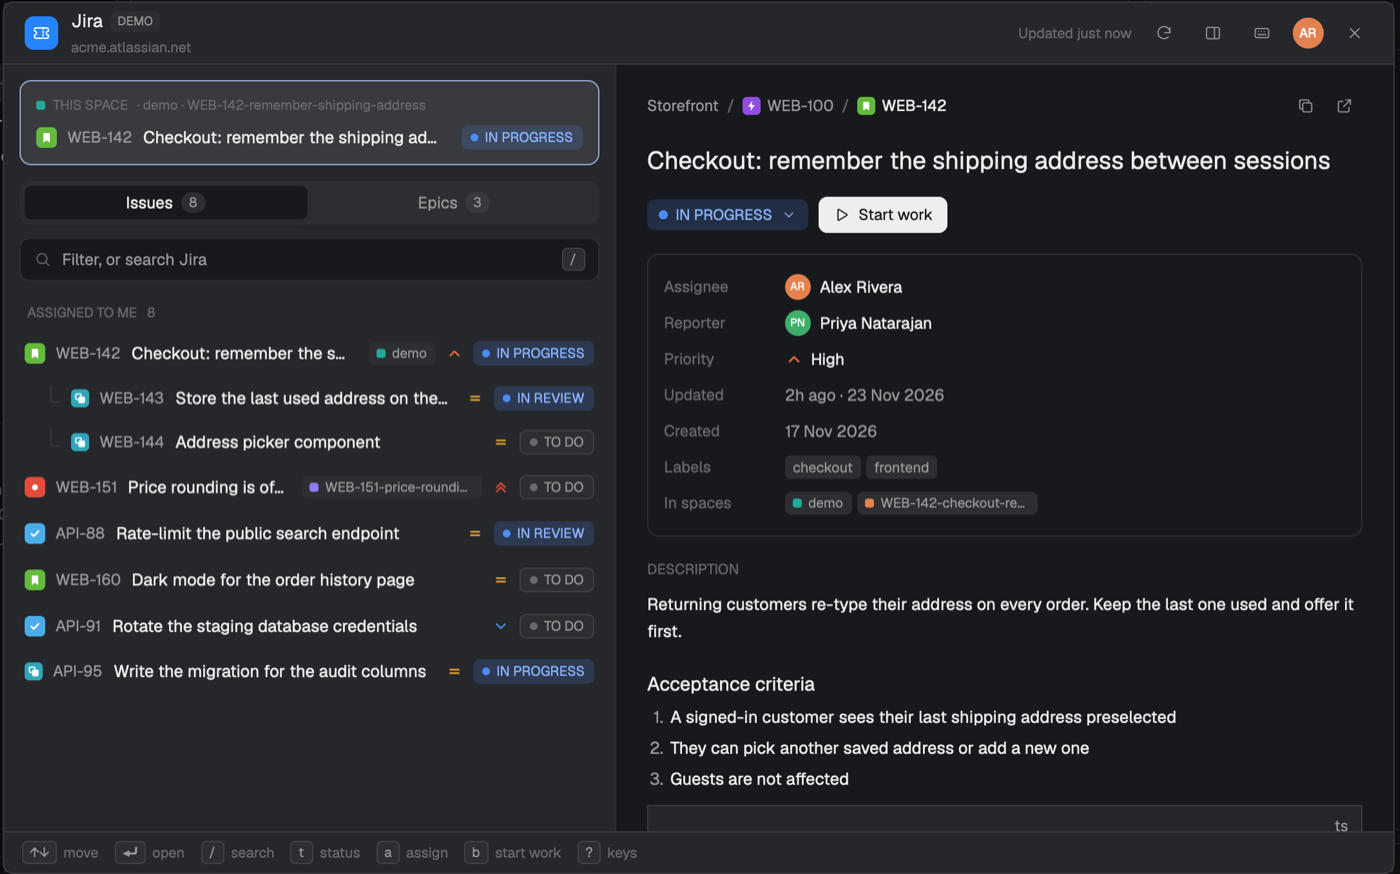
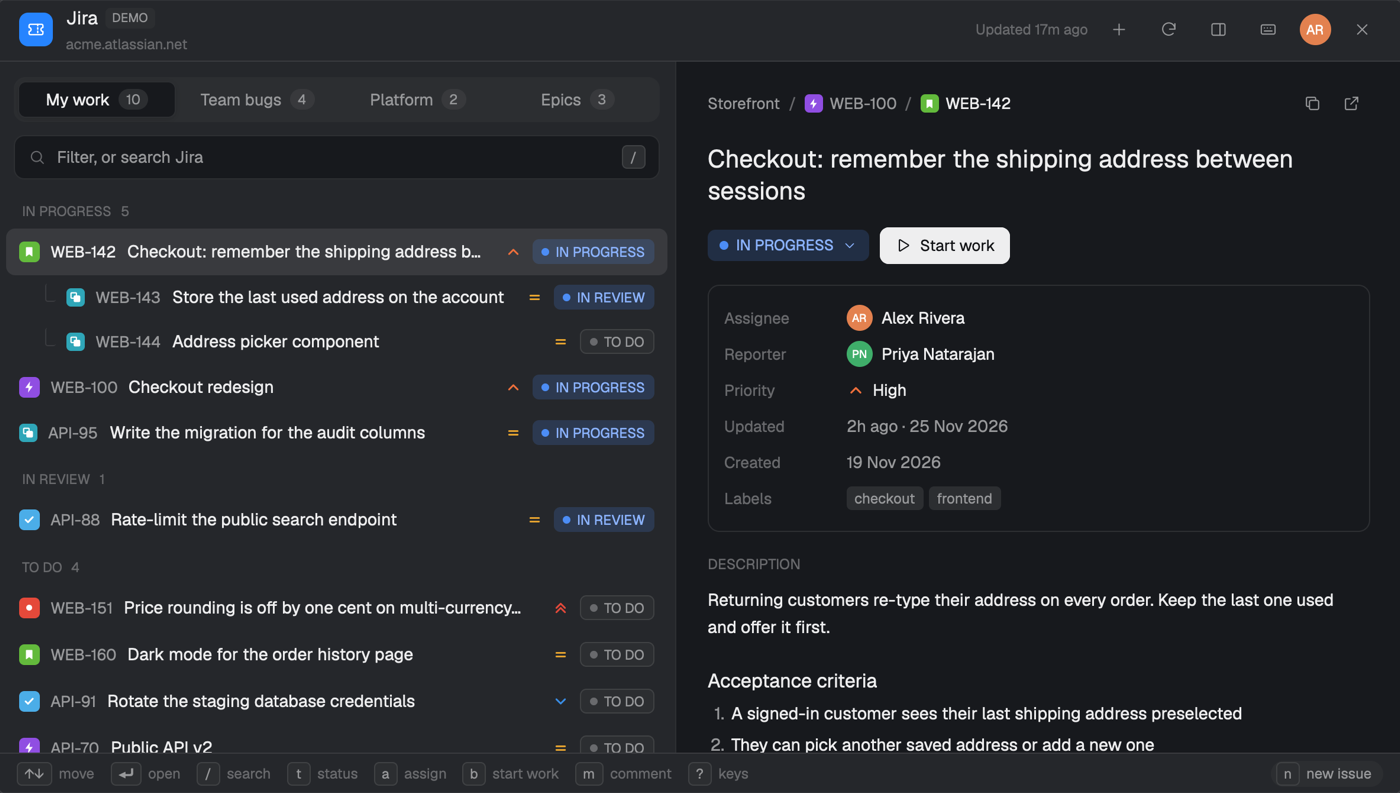
README: screenshots of each feature of the app mod (#21)
Refresh app/preview.png for configurable tabs and add a tour section to
app/README.md (status, start work, quick create, search, epics, setup,
keys), all from the demo site. Link it from the root README.

diff --git a/app/README.md b/app/README.md
@@ -39,6 +39,41 @@ shares its sign-in, caches and stars, so you can use both.
 **It writes to Jira** when you ask it to: creating an issue, status changes,
 assigning to you, and Start work's follow-ups. Stars stay on your machine.
 
+## A tour
+
+These screenshots are from the demo (`herdr-jira app install --demo`), a pretend
+Jira site, so you can try every one of them without an account.
+
+**Change status** (`t`): the issue's transitions, as Jira lists them.
+
+![The status menu on WEB-142, offering To Do, In Review and Done](screenshots/status.png)
+
+**Start work** (`b`): a branch named after the issue, as a new worktree space or
+checked out where you are, with the optional follow-ups and an agent to start.
+
+![The Start work dialog: branch name, new worktree or switch branch, assign, move to In Progress, and which agent to start](screenshots/start.png)
+
+**Quick create** (`n`): project, issue type, summary, and an optional
+description.
+
+![The New issue form with project, issue type, summary, description and Assign to me](screenshots/create.png)
+
+**Search** (`/`): filters the tab at once, then asks Jira for anything else.
+
+![Searching My work for "address", with matching issues and a Search results lane](screenshots/search.png)
+
+**Epics** (opt-in tab): `enter` on an epic lists its children.
+
+![The Epics tab showing the children of WEB-100 Checkout redesign](screenshots/epic-children.png)
+
+**First run setup**: pick a default project, then your tabs.
+
+![The setup's Default project step, with a project search and list](screenshots/setup.png)
+
+**All keys** (`?`), with **Set up** and sign out.
+
+![The keys sheet listing every shortcut](screenshots/keys.png)
+
 ## Tabs
 
 Tabs come from the optional `views` list in the helper's `config.json`

diff --git a/AGENTS.md b/AGENTS.md
@@ -5,3 +5,4 @@ Notes for agents working in this repo.
 - Demo mode: run `./bin/herdr-jira api --demo <op>` with `HERDR_PLUGIN_STATE_DIR` set to a temp dir to try ops offline; `herdr-app do jira.key:2` / `herdr-app do jira.search:foo` drive the open dialog and `herdr-app shot` screenshots it.
 - Demo create: `HERDR_PLUGIN_STATE_DIR=$(mktemp -d) ./bin/herdr-jira api --demo create --project WEB --type Task --summary x`. Installing the demo mod overwrites `~/.config/herdr-app/mods/jira`.
 - The helper binary embeds the mod: run `sh scripts/build.sh` before `herdr-jira app install --demo`, or the app keeps the old JS. Each reinstall closes the dialog; reopen it with `herdr-app do mod.open --name jira`.
+- README screenshots (`app/preview.png`, `app/screenshots/`): demo mod, drive the dialog with `herdr-app do jira.<command>`, `herdr-app shot`, then crop to the dialog with `sips -c <h> <w> --cropOffset <y> <x>` (the shot is the whole window, including the person's terminals) and `sips -Z 1400`.

diff --git a/README.md b/README.md
@@ -27,7 +27,7 @@ curl -fsSL https://raw.githubusercontent.com/craicoverflow/herdr-jira/main/scrip
 ```
 
 See [`app/README.md`](app/README.md) for what it does, other ways to install,
-and how to use it.
+and how to use it, with [screenshots of each feature](app/README.md#a-tour).
 
 ![Jira in the Herdr app](app/preview.png)
 
